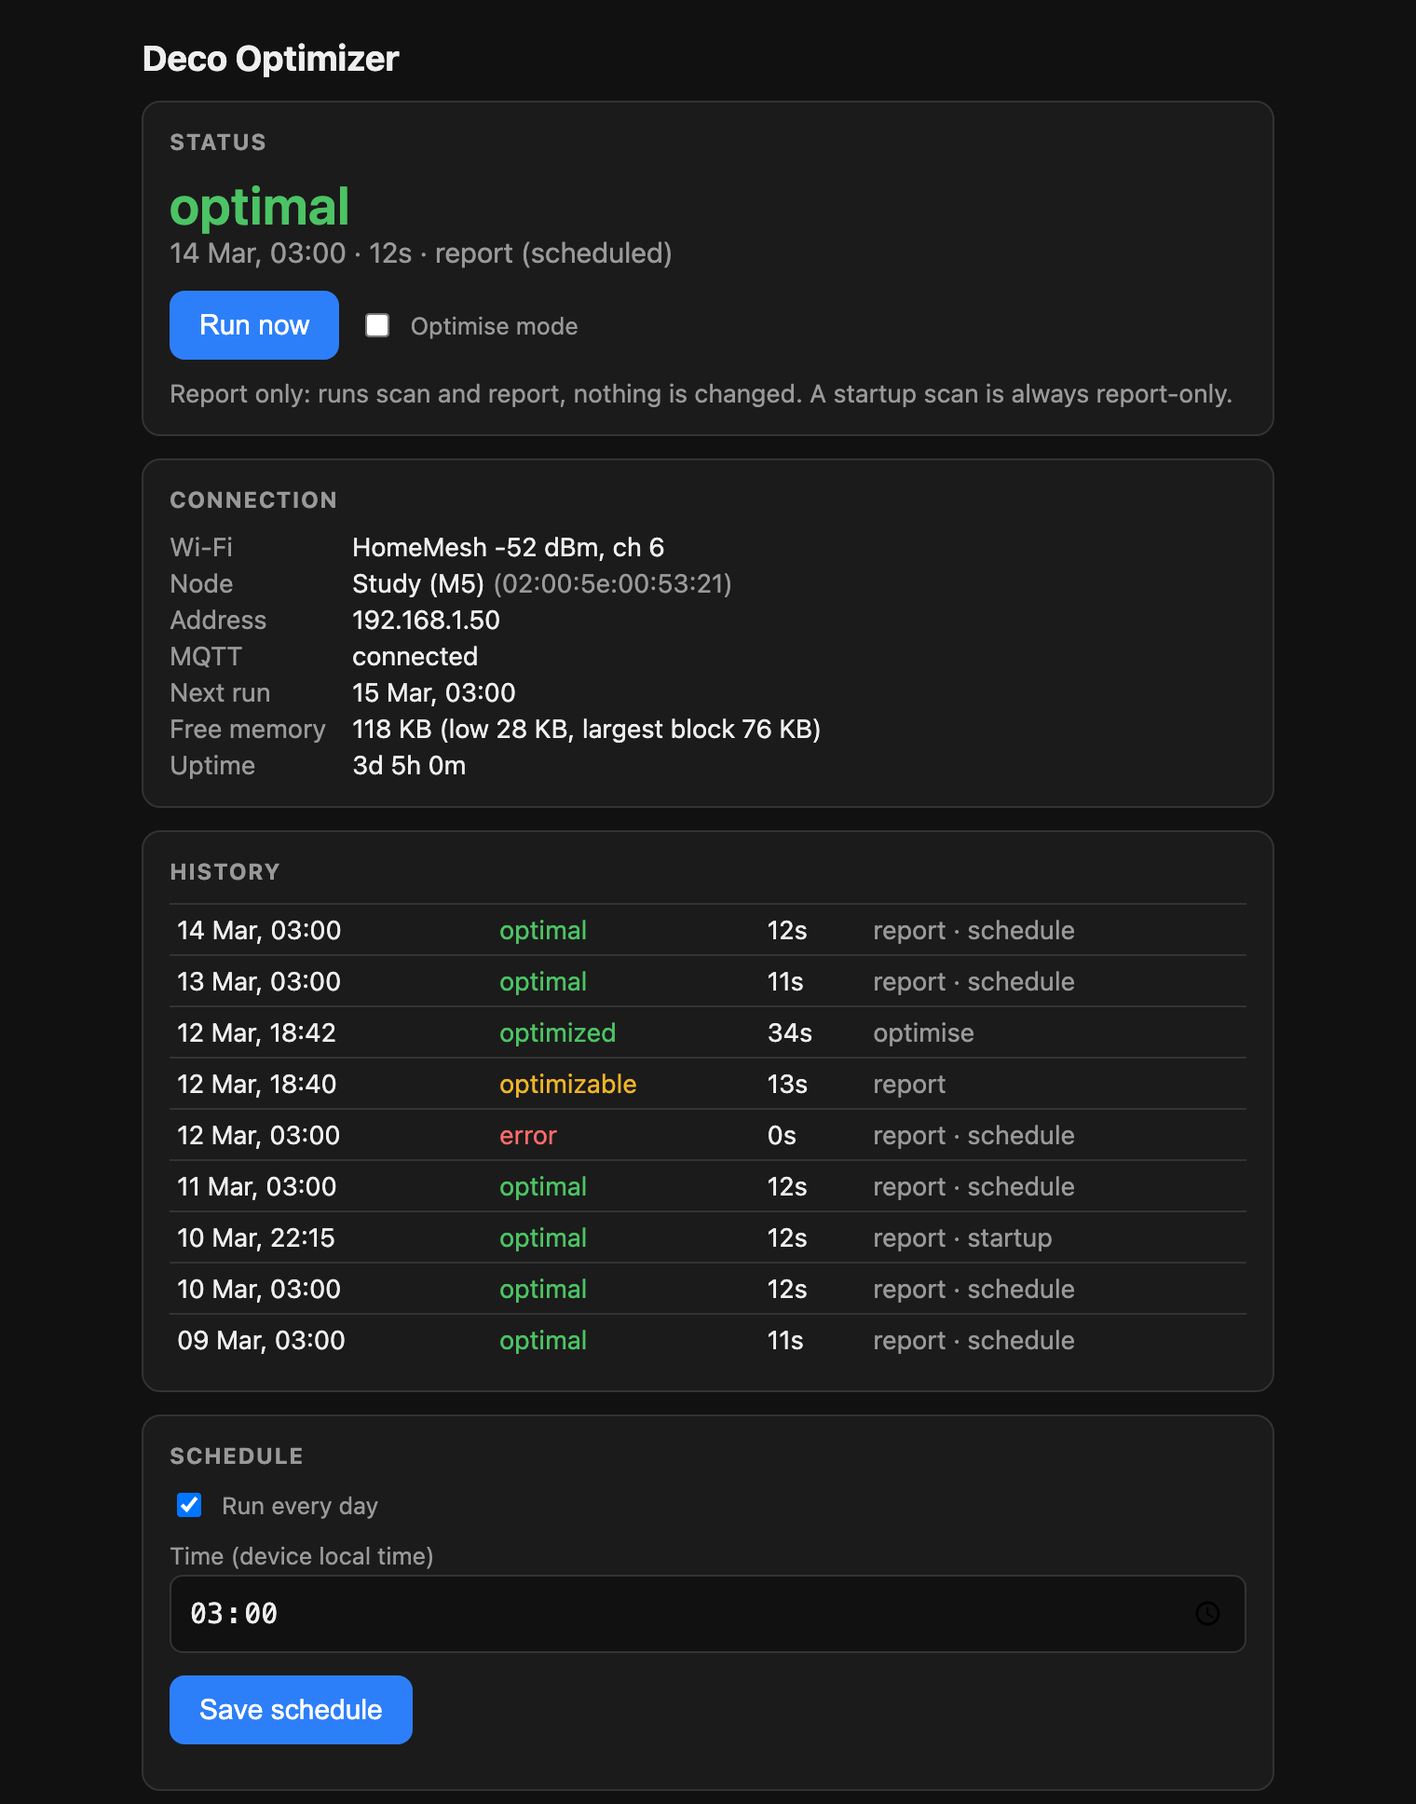
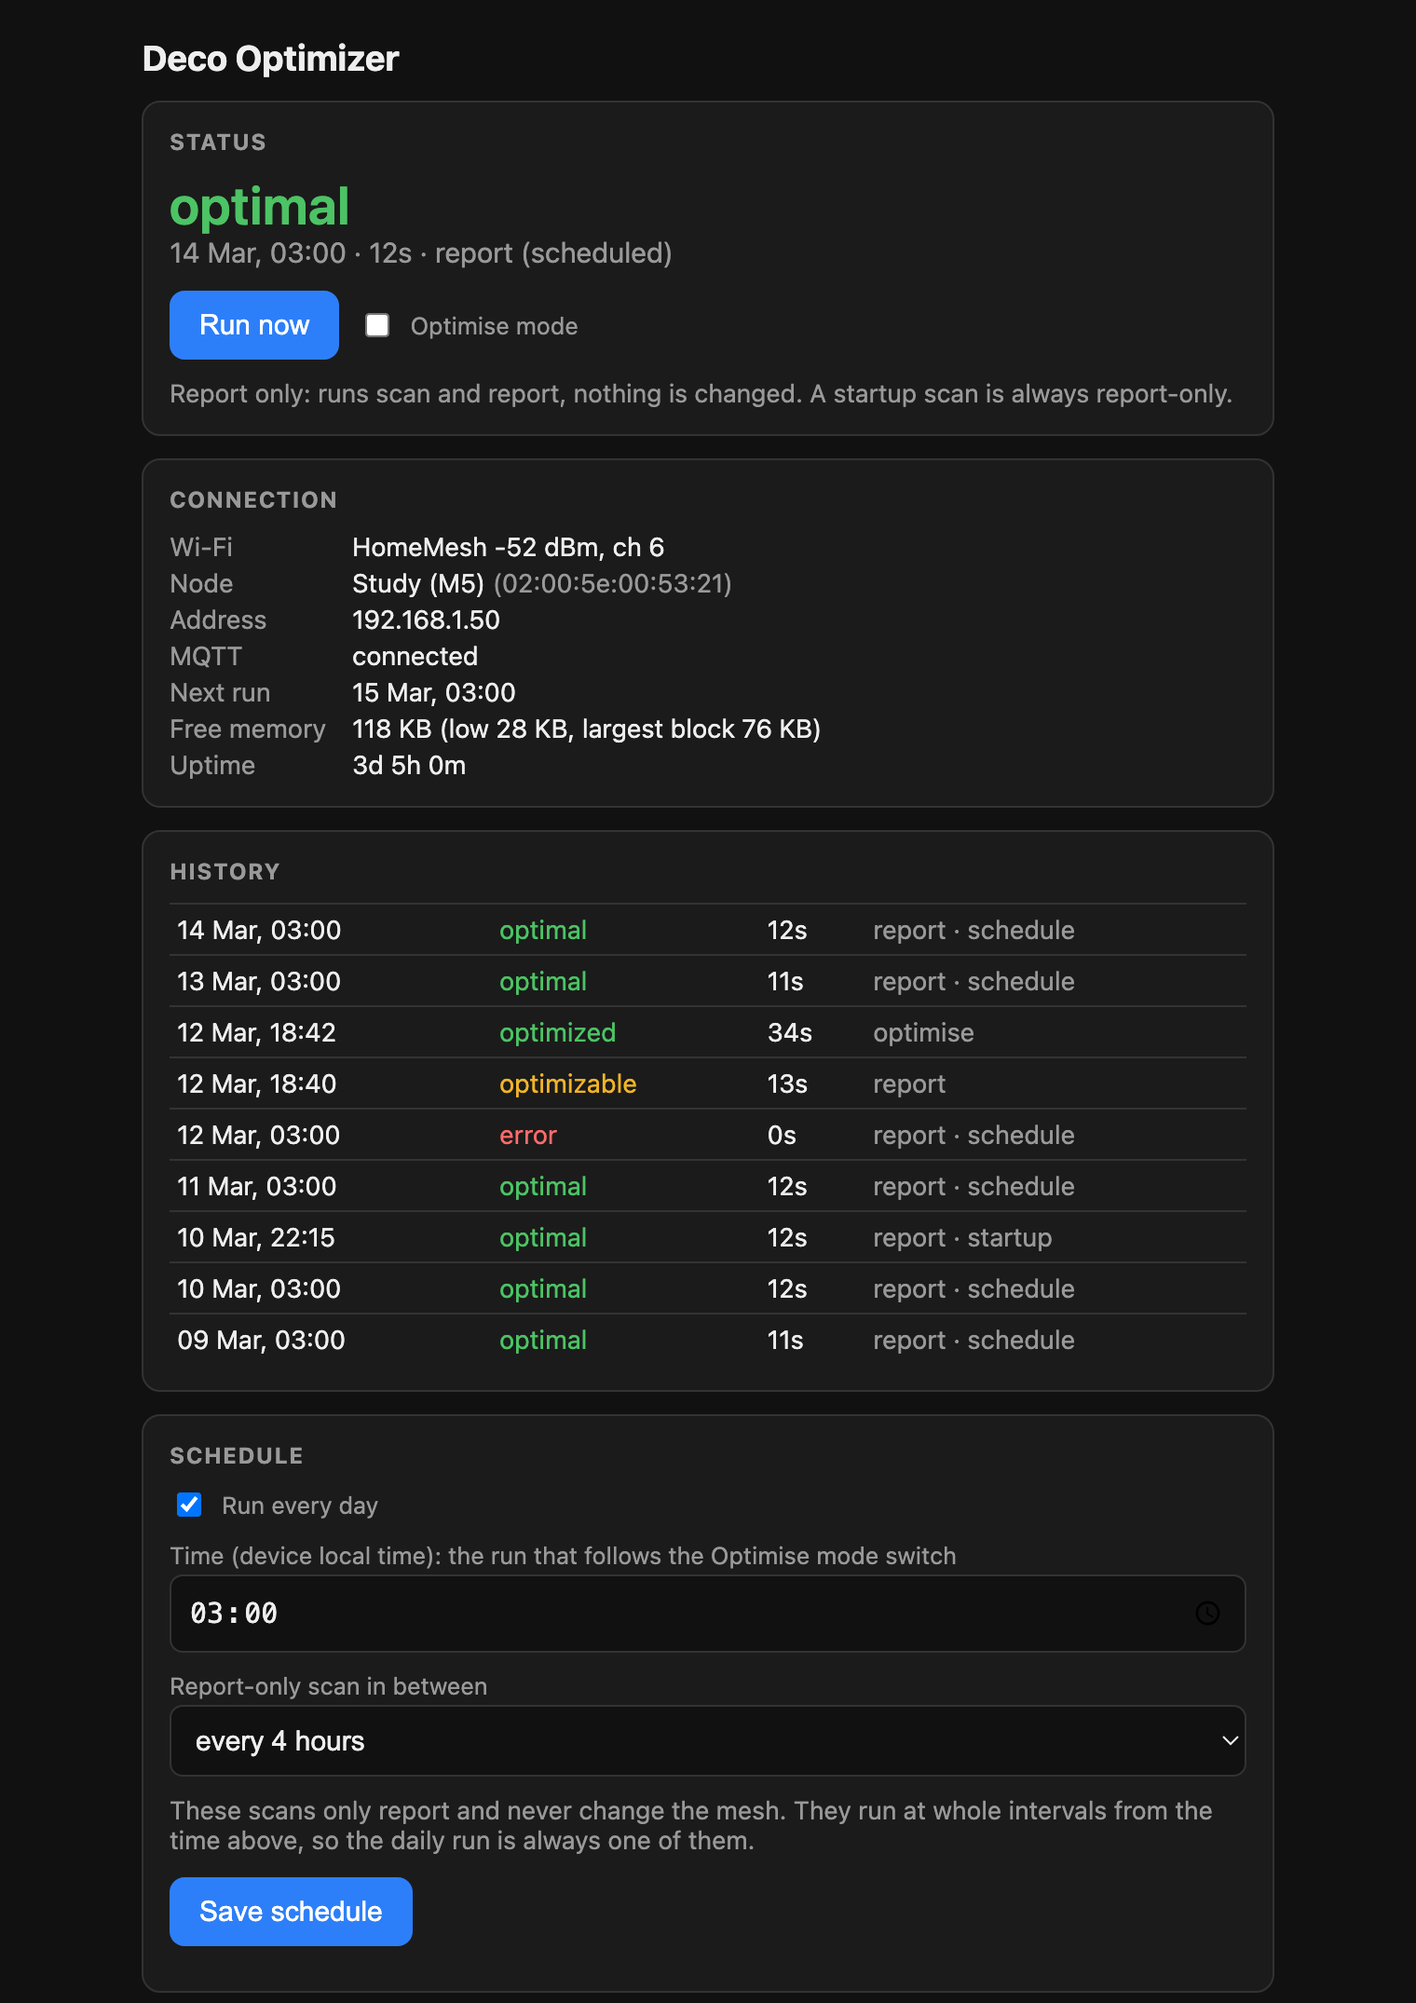
Schedule: daily run follows the Optimise switch, plus report-only scans at a chosen interval
report_every_h (off, or 1/2/3/4/6/8/12) adds report-only scans in step with the daily time. They never
optimise and do not wake the screen. The settings blob grew by one byte at the end; the loader still
accepts the previous length, so an update keeps the Wi-Fi details and secrets.

diff --git a/main/web/index.html b/main/web/index.html
@@ -12,7 +12,7 @@ h2{font-size:.8em;text-transform:uppercase;letter-spacing:.06em;color:var(--dim)
 button{padding:10px 16px;font-size:1em;border:0;border-radius:8px;background:var(--acc);color:#fff;cursor:pointer}
 button.sec{background:transparent;border:1px solid var(--line);color:var(--tx)}button:disabled{opacity:.45}
 label{display:block;margin:10px 0 3px;color:var(--dim);font-size:.85em}
-input[type=text],input[type=password],input[type=time]{width:100%;padding:9px;font-size:1em;border-radius:7px;border:1px solid var(--line);background:var(--bg);color:var(--tx)}
+input[type=text],input[type=password],input[type=time],select{width:100%;padding:9px;font-size:1em;border-radius:7px;border:1px solid var(--line);background:var(--bg);color:var(--tx)}
 .sw{display:flex;align-items:center;gap:8px;margin:8px 0}.kv{display:grid;grid-template-columns:auto 1fr;gap:3px 14px;font-size:.92em}
 .kv span:nth-child(odd){color:var(--dim)}table{width:100%;border-collapse:collapse;font-size:.92em}td{padding:5px 4px;border-top:1px solid var(--line)}
 .msg{margin-top:10px;font-size:.9em}details{margin:8px 0}summary{cursor:pointer;color:var(--tx)}pre{margin:8px 0 0;white-space:pre-wrap;word-break:break-word;font:12px ui-monospace,Menlo,monospace;max-height:340px;overflow:auto;background:var(--bg);border:1px solid var(--line);border-radius:7px;padding:8px}.danger{border-color:var(--bad)}.danger h2{color:var(--bad)}button.bad{background:var(--bad);color:#fff}pre::-webkit-scrollbar{height:12px;width:12px}pre::-webkit-scrollbar-track{background:var(--bg)}pre::-webkit-scrollbar-thumb{background:var(--dim);border-radius:6px;border:2px solid var(--bg)}@supports not selector(::-webkit-scrollbar){pre{scrollbar-color:var(--dim) var(--bg);scrollbar-width:auto}}pre.nw{white-space:pre;word-break:normal}code{font-size:.85em;word-break:break-all}
@@ -27,7 +27,10 @@ input[type=text],input[type=password],input[type=time]{width:100%;padding:9px;fo
 <section><h2>History</h2><table id=hist></table></section>
 <section><h2>Schedule</h2>
  <label class=sw><input type=checkbox id=sched_en> Run every day</label>
- <label>Time (device local time)</label><input type=time id=sched_t>
+ <label>Time (device local time): the run that follows the Optimise mode switch</label><input type=time id=sched_t>
+ <label>Report-only scan in between</label>
+ <select id=rep_h><option value=0>never</option><option value=12>every 12 hours</option><option value=8>every 8 hours</option><option value=6>every 6 hours</option><option value=4>every 4 hours</option><option value=3>every 3 hours</option><option value=2>every 2 hours</option><option value=1>every hour</option></select>
+ <div class="dim msg">These scans only report and never change the mesh. They run at whole intervals from the time above, so the daily run is always one of them.</div>
  <div class=row style="margin-top:12px"><button id=save_sched>Save schedule</button></div><div class=msg id=m_sched></div></section>
 <section><h2>Deco</h2>
  <label>Deco address</label><input type=text id=deco_host autocapitalize=none>
@@ -81,7 +84,7 @@ async function refresh(){try{const s=await api('/api/status');
  $('hist').innerHTML=s.history.map(x=>`<tr><td>${fmt(x.ts)}</td><td class=${cls(x.v)}>${x.v}</td><td>${x.dur}s</td><td class=dim>${x.flags&1?'optimise':'report'}${x.flags&4?' · startup':x.flags&2?' · schedule':''}</td></tr>`).join('')||'<tr><td class=dim>no runs yet</td></tr>'}catch(e){}}
 async function loadCfg(){const c=await api('/api/config');
  for(const k of['deco_host','deco_email','mqtt_uri','mqtt_user','wifi_ssid'])$(k).value=c[k]||'';
- $('sched_en').checked=c.sched_en;$('sched_t').value=String(c.sched_h).padStart(2,'0')+':'+String(c.sched_m).padStart(2,'0');
+ $('rep_h').value=c.report_every_h||0;$('sched_en').checked=c.sched_en;$('sched_t').value=String(c.sched_h).padStart(2,'0')+':'+String(c.sched_m).padStart(2,'0');
  for(const k of['deco_pass','mqtt_pass','wifi_pass'])$(k).placeholder=c[k+'_set']?'(set - leave empty to keep)':'(not set)';
  $('hostkey').textContent=c.hostkey_set?c.hostkey:'not pinned yet - will pin on the next connection'}
 async function save(msgid,body,restart){try{say(msgid,'saving...');const r=await api('/api/config',Object.assign(body,restart?{restart:true}:{}));
@@ -89,7 +92,7 @@ async function save(msgid,body,restart){try{say(msgid,'saving...');const r=await
  if(restart)setTimeout(()=>location.reload(),20000);else loadCfg()}catch(e){say(msgid,'Failed: '+(e.message||e),'bad')}}
 $('run').onclick=async()=>{await api('/api/run',{});setTimeout(refresh,400)};
 $('opt').onchange=async e=>{await api('/api/mode',{optimize:e.target.checked});refresh()};
-$('save_sched').onclick=()=>{const[t1,t2]=$('sched_t').value.split(':');save('m_sched',{sched_en:$('sched_en').checked,sched_h:+t1,sched_m:+t2})};
+$('save_sched').onclick=()=>{const[t1,t2]=$('sched_t').value.split(':');save('m_sched',{sched_en:$('sched_en').checked,sched_h:+t1,sched_m:+t2,report_every_h:+$('rep_h').value})};
 $('save_deco').onclick=()=>save('m_deco',{deco_host:$('deco_host').value.trim(),deco_email:$('deco_email').value.trim(),deco_pass:$('deco_pass').value}).then(()=>$('deco_pass').value='');
 $('repin').onclick=async()=>{if(confirm('Trust whatever SSH host key the Deco presents next time?')){await api('/api/repin',{});say('m_deco','Will re-pin on the next connection.','ok');loadCfg()}};
 $('save_mqtt').onclick=()=>save('m_mqtt',{mqtt_uri:$('mqtt_uri').value.trim(),mqtt_user:$('mqtt_user').value.trim(),mqtt_pass:$('mqtt_pass').value},true);

diff --git a/main/main.c b/main/main.c
@@ -34,7 +34,7 @@
 
 static const char *TAG = "app";
 
-typedef enum { CMD_RUN_MANUAL, CMD_RUN_SCHEDULED, CMD_RUN_STARTUP, CMD_FETCH_NODES } cmd_t;
+typedef enum { CMD_RUN_MANUAL, CMD_RUN_SCHEDULED, CMD_RUN_STARTUP, CMD_RUN_REPORT, CMD_FETCH_NODES } cmd_t;
 static QueueHandle_t s_cmds;
 static volatile bool s_busy;
 #define NET_DEAD_REBOOT_S 600          // see scheduler_task: last-resort self-heal
@@ -72,8 +72,8 @@ static void worker_task(void *arg)
         if (c == CMD_FETCH_NODES) { deco_nodes_fetch(); continue; }     // once per boot, before the first SSH run
         if (s_busy) continue;
         s_busy = true; app_busy_set(true);
-        screensaver_wake();                // a run (scheduled, manual, web or MQTT) lights the screen
-        bool optimize = (c == CMD_RUN_STARTUP) ? false : g_cfg.optimize;   // a reboot must never optimise
+        if (c != CMD_RUN_REPORT) screensaver_wake();   // a run (scheduled, manual, web or MQTT) lights the screen; the in-between reports do not
+        bool optimize = (c == CMD_RUN_STARTUP || c == CMD_RUN_REPORT) ? false : g_cfg.optimize;   // a reboot or an in-between report must never optimise
         progress("checking wifi");
         wifi_check_link();      // moves off a mesh node that is not passing traffic
         deco_result_t r;
@@ -86,11 +86,11 @@ static void worker_task(void *arg)
         }
         time_t now = time(NULL);
         hist_entry_t e = {.ts = now > 1700000000 ? (uint32_t)now : 0, .duration_s = r.duration_s > 65535 ? 65535 : r.duration_s,
-                          .verdict = r.verdict, .flags = (optimize ? 1 : 0) | (c == CMD_RUN_SCHEDULED ? 2 : 0) | (c == CMD_RUN_STARTUP ? 4 : 0)};
+                          .verdict = r.verdict, .flags = (optimize ? 1 : 0) | ((c == CMD_RUN_SCHEDULED || c == CMD_RUN_REPORT) ? 2 : 0) | (c == CMD_RUN_STARTUP ? 4 : 0)};
         if (r.verdict != DECO_ERROR) s_last_net_ok_us = esp_timer_get_time();
         // One persistent line per run, with the reason and where it stopped, so a failure can be read afterwards.
         evlog_event("run %s/%s: %s%s%s (%us, %d attempt%s%s%s%s)", optimize ? "optimise" : "report",
-                    c == CMD_RUN_SCHEDULED ? "schedule" : c == CMD_RUN_STARTUP ? "startup" : "manual",
+                    c == CMD_RUN_SCHEDULED ? "schedule" : c == CMD_RUN_REPORT ? "interval" : c == CMD_RUN_STARTUP ? "startup" : "manual",
                     r.verdict == DECO_ERROR ? "ERROR" : deco_verdict_str(r.verdict),
                     r.detail[0] ? ": " : "", r.detail, (unsigned)r.duration_s, attempts, attempts == 1 ? "" : "s",
                     r.verdict == DECO_ERROR ? ", last step '" : "", r.verdict == DECO_ERROR ? s_phase : "",
@@ -98,7 +98,7 @@ static void worker_task(void *arg)
         history_add(&e);
         app_state_set(r.verdict == DECO_ERROR ? "error" : deco_verdict_str(r.verdict));
         ui_set_result(r.verdict, e.ts, r.duration_s, r.detail);
-        screensaver_wake();                // keep the result on screen for a full timeout
+        if (c != CMD_RUN_REPORT) screensaver_wake();   // keep the result on screen for a full timeout
         mqtt_publish_result(&e, r.detail);
         ESP_LOGI(TAG, "[heap] free=%u min=%u largest=%u", (unsigned)esp_get_free_heap_size(), (unsigned)esp_get_minimum_free_heap_size(), (unsigned)heap_caps_get_largest_free_block(MALLOC_CAP_8BIT));
         s_busy = false; app_busy_set(false);
@@ -113,6 +113,24 @@ static time_t next_schedule(time_t from)
     time_t t = mktime(&tm);
     if (t <= from) { tm.tm_mday++; tm.tm_isdst = -1; t = mktime(&tm); }
     return t;
+}
+
+// Next report-only slot after 'from': the daily time plus whole multiples of the interval (the interval divides 24, so the
+// daily run is one of the slots). The daily run's own slot is left out, because that run is the one that may optimise.
+static time_t next_report(time_t from)
+{
+    int n = g_cfg.report_every_h;
+    if (n <= 0) return 0;
+    struct tm base; localtime_r(&from, &base);
+    time_t best = 0;
+    for (int k = -24 / n; k <= 48 / n; k++) {
+        if ((k * n) % 24 == 0) continue;
+        struct tm tm = base;
+        tm.tm_hour = g_cfg.sched_h + k * n; tm.tm_min = g_cfg.sched_m; tm.tm_sec = 0; tm.tm_isdst = -1;
+        time_t t = mktime(&tm);
+        if (t > from && (!best || t < best)) best = t;
+    }
+    return best;
 }
 
 // Holding BOOT (GPIO9) for 5 s while running clears the Wi-Fi details and restarts into setup mode.
@@ -221,7 +239,8 @@ static void update_device_info(void)
 
 static void scheduler_task(void *arg)
 {
-    time_t next = 0;
+    time_t next = 0, next_rep = 0;
+    uint32_t last_key = 0;
     s_last_net_ok_us = esp_timer_get_time();
     for (;;) {
         if (mqtt_is_connected()) s_last_net_ok_us = esp_timer_get_time();
@@ -232,11 +251,23 @@ static void scheduler_task(void *arg)
         update_device_info();
         time_t now = time(NULL);
         if (now > 1700000000 && g_cfg.sched_en) {     // clock is set and the schedule is enabled
-            if (!next) { next = next_schedule(now); set_next(next); ESP_LOGI(TAG, "next scheduled run at %lld", (long long)next); }
+            uint32_t key = g_cfg.sched_h << 16 | g_cfg.sched_m << 8 | g_cfg.report_every_h;
+            if (!next || key != last_key) {           // first time, or the schedule was edited on the web page
+                last_key = key;
+                next = next_schedule(now);
+                next_rep = next_report(now);
+                ESP_LOGI(TAG, "next scheduled run at %lld, next report at %lld", (long long)next, (long long)next_rep);
+                set_next(next_rep && next_rep < next ? next_rep : next);
+            }
             if (now >= next) {
                 cmd_t c = CMD_RUN_SCHEDULED; xQueueSend(s_cmds, &c, 0);
                 next = next_schedule(now + 60);
-                set_next(next);
+                next_rep = next_report(now + 60);
+                set_next(next_rep && next_rep < next ? next_rep : next);
+            } else if (next_rep && now >= next_rep) {
+                cmd_t c = CMD_RUN_REPORT; xQueueSend(s_cmds, &c, 0);
+                next_rep = next_report(now + 60);
+                set_next(next_rep && next_rep < next ? next_rep : next);
             }
         }
         vTaskDelay(pdMS_TO_TICKS(5000));

diff --git a/main/web.c b/main/web.c
@@ -183,6 +183,7 @@ static esp_err_t h_config_get(httpd_req_t *r)
     cJSON_AddBoolToObject(o, "sched_en", g_cfg.sched_en);
     cJSON_AddNumberToObject(o, "sched_h", g_cfg.sched_h);
     cJSON_AddNumberToObject(o, "sched_m", g_cfg.sched_m);
+    cJSON_AddNumberToObject(o, "report_every_h", g_cfg.report_every_h);
     // secrets are never sent back, only whether they are set
     cJSON_AddBoolToObject(o, "wifi_pass_set", g_cfg.wifi_pass[0] != 0);
     cJSON_AddBoolToObject(o, "deco_pass_set", g_cfg.deco_pass[0] != 0);
@@ -228,6 +229,10 @@ static esp_err_t h_config_post(httpd_req_t *r)
     if (cJSON_IsBool(v = cJSON_GetObjectItem(j, "sched_en"))) { g_cfg.sched_en = cJSON_IsTrue(v); changed = true; }
     if (cJSON_IsNumber(v = cJSON_GetObjectItem(j, "sched_h")) && v->valueint >= 0 && v->valueint < 24) { g_cfg.sched_h = v->valueint; changed = true; }
     if (cJSON_IsNumber(v = cJSON_GetObjectItem(j, "sched_m")) && v->valueint >= 0 && v->valueint < 60) { g_cfg.sched_m = v->valueint; changed = true; }
+    if (cJSON_IsNumber(v = cJSON_GetObjectItem(j, "report_every_h"))) {
+        int n = v->valueint;
+        if (n == 0 || (n > 0 && n <= 12 && 24 % n == 0)) { g_cfg.report_every_h = n; changed = true; }   // whole divisors of 24 only
+    }
     bool want_restart = cJSON_IsTrue(cJSON_GetObjectItem(j, "restart"));
     cJSON_Delete(j);
 

diff --git a/tools/screenshots/web_shots.py b/tools/screenshots/web_shots.py
@@ -33,7 +33,7 @@ def status(scn):
             "history": [{"ts": a, "v": b, "dur": c, "flags": d} for a, b, c, d in hist]}
 
 CONFIG = {"wifi_ssid": "HomeMesh", "deco_host": "192.168.1.1", "deco_email": "user@example.com",
-          "mqtt_uri": "mqtt://homeassistant.local:1883", "mqtt_user": "deco", "sched_en": True, "sched_h": 3, "sched_m": 0,
+          "mqtt_uri": "mqtt://homeassistant.local:1883", "mqtt_user": "deco", "sched_en": True, "sched_h": 3, "sched_m": 0, "report_every_h": 4,
           "wifi_pass_set": True, "deco_pass_set": True, "mqtt_pass_set": True, "hostkey_set": True,
           "hostkey": "0a:1b:2c:3d:4e:5f:60:71:82:93:a4:b5:c6:d7:e8:f9:0a:1b:2c:3d"}
 
@@ -135,7 +135,7 @@ def crop(src, dst, y0, y1=None):
     im = Image.open(os.path.join(OUT, src + ".png"))
     im.crop((0, y0, im.width, min(im.height, y1) if y1 else im.height)).save(os.path.join(OUT, dst + ".png"))
     print("wrote", dst + ".png")
-SPLIT = 1936      # between the Schedule and Deco sections, at 2x scale
+SPLIT = 2150      # between the Schedule and Deco sections, at 2x scale
 for theme in ("dark", "light"):
     crop("web_idle_" + theme, "web_page_top_" + theme, 0, SPLIT)
     crop("web_idle_" + theme, "web_page_settings_" + theme, SPLIT)

diff --git a/main/settings.c b/main/settings.c
@@ -1,5 +1,6 @@
 #include "settings.h"
 #include <string.h>
+#include <stddef.h>
 #include "esp_log.h"
 #include "nvs.h"
 #include "nvs_flash.h"
@@ -7,6 +8,10 @@
 
 #define SETTINGS_MAGIC 0xDEC00002u
 static const char *TAG = "settings";
+// The blob before report_every_h was added. It is still accepted (the new field then takes its default), so an
+// update does not discard the Wi-Fi details and secrets. New fields must only ever be added at the end.
+#define SETTINGS_LEN_V2 536
+_Static_assert(offsetof(settings_t, report_every_h) == SETTINGS_LEN_V2, "settings layout changed: keep new fields at the end");
 
 settings_t g_cfg;
 
@@ -26,9 +31,10 @@ void settings_load(void)
     size_t len = sizeof g_cfg;
     static settings_t tmp;
     if (nvs_open("cfg", NVS_READONLY, &h) == ESP_OK) {
+        memset(&tmp, 0, sizeof tmp);
         esp_err_t e = nvs_get_blob(h, "all", &tmp, &len);
         nvs_close(h);
-        if (e == ESP_OK && len == sizeof tmp && tmp.magic == SETTINGS_MAGIC) {
+        if (e == ESP_OK && (len == sizeof tmp || len == SETTINGS_LEN_V2) && tmp.magic == SETTINGS_MAGIC) {
             g_cfg = tmp;
             ESP_LOGI(TAG, "loaded from encrypted NVS");
             return;

diff --git a/main/settings.h b/main/settings.h
@@ -21,6 +21,7 @@ typedef struct {
     bool sched_en;
     uint8_t sched_h, sched_m;
     bool wifi_verified;      // false right after setup until the first successful connect
+    uint8_t report_every_h;  // 0 = off; else 1,2,3,4,6,8 or 12: a report-only scan every N hours, in step with the daily run
 } settings_t;
 
 extern settings_t g_cfg;

diff --git a/README.md b/README.md
@@ -16,7 +16,9 @@ Python reference implementation are in [Zoogara/deco-network-optimize](https://g
 - Scan / optimize via SSH direct-tcpip to `127.0.0.1:20002` on the Deco (libssh2 on mbedTLS; the Deco's 512-bit RSA host key
   is pinned on first use).
 - Touch UI: status page, swipeable history, Run now, report-only / optimise switch.
-- Daily schedule (SNTP, POSIX timezone in `main/config.h`). A report-only scan always runs once after boot, and a reboot never optimises.
+- Daily schedule (SNTP, POSIX timezone in `main/config.h`): one run a day at a set time that follows the Optimise mode switch, plus an optional
+  report-only scan at a chosen interval through the rest of the day (every 1, 2, 3, 4, 6, 8 or 12 hours, counted from the daily time). The in-between scans never
+  change the mesh and do not wake the screen. A report-only scan always runs once after boot, and a reboot never optimises.
 - Screensaver: after 5 minutes without a touch the screen shows a short burst of "snow" and the backlight turns off. A touch wakes it (that touch is
   not passed on to the buttons underneath), and so does every scan or optimise run, scheduled or not. Set `CONFIG_DECO_SCREENSAVER_TIMEOUT_S` to change the time, or `0` to disable.
 - Home Assistant MQTT discovery (state, last/next scan, optimise switch, run button), with availability.
